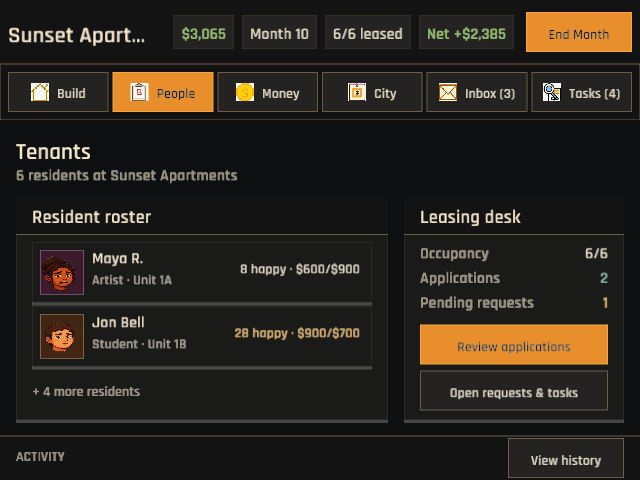
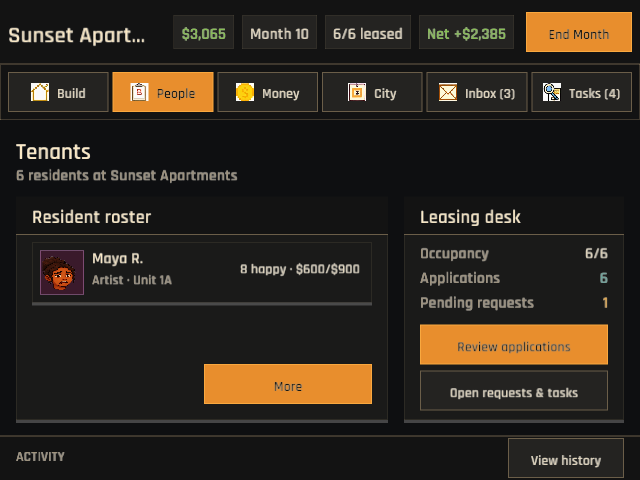
No resident disappears behind the leasing desk ledger (paged tenant roster)
Replace the resident roster's passive '+ more' summary with touch-sized Earlier and More controls backed by transient page state. Compute page capacity from the live panel height so desktop and 640x480 both keep every resident reachable without sacrificing the adjacent applications and requests actions.

Add deterministic later-page tenant captures to the standard verification manifest.

Verified with 131 passing tests (1 ignored), first-page and later-page captures at desktop and 640x480, formatting, diff and Rust line-count checks, and publish.ps1 for Windows, WebGL, and preview deployment.

Changed region(s): [[0.0625, 0.6562, 0.5938, 0.8438], [0.3438, 0.6562, 0.5625, 0.7188], [0.9375, 0.5625, 0.9688, 0.5938]]

diff --git a/src/ui/workspace_views.rs b/src/ui/workspace_views.rs
@@ -96,8 +96,11 @@ pub fn draw_tenants_view(state: &GameplayState, assets: &AssetManager) -> Option
         );
     }
     let row_h = 64.0;
-    let visible = ((roster_inner.h / row_h).floor() as usize).max(1);
-    for tenant in tenants.iter().take(visible) {
+    let controls_h = 48.0;
+    let page_size = (((roster_inner.h - controls_h) / row_h).floor() as usize).max(1);
+    let page_count = tenants.len().div_ceil(page_size).max(1);
+    let page = state.tenants_page.min(page_count - 1);
+    for tenant in tenants.iter().skip(page * page_size).take(page_size) {
         let row = Rect::new(roster_inner.x, y, roster_inner.w, row_h - space::XS);
         draw_card(row, false);
         let portrait = Rect::new(row.x + space::SM, row.y + space::SM, 44.0, 44.0);
@@ -147,14 +150,30 @@ pub fn draw_tenants_view(state: &GameplayState, assets: &AssetManager) -> Option
         );
         y += row_h;
     }
-    if tenants.len() > visible {
-        draw_ui_text(
-            &format!("+ {} more residents", tenants.len() - visible),
-            roster_inner.x,
-            roster_inner.bottom() - space::SM,
-            scale::LABEL,
-            color::TEXT_DIM(),
-        );
+    if page_count > 1 {
+        let button_y = roster_inner.bottom() - 40.0;
+        let gap = space::XS;
+        let button_w = (roster_inner.w - gap) * 0.5;
+        if page > 0
+            && button_at(
+                Rect::new(roster_inner.x, button_y, button_w, 40.0),
+                "Earlier",
+                true,
+                Tone::Secondary,
+            )
+        {
+            return Some(UiAction::SetTenantsPage { page: page - 1 });
+        }
+        if page + 1 < page_count
+            && button_at(
+                Rect::new(roster_inner.x + button_w + gap, button_y, button_w, 40.0),
+                "More",
+                true,
+                Tone::Primary,
+            )
+        {
+            return Some(UiAction::SetTenantsPage { page: page + 1 });
+        }
     }
 
     let side_inner = draw_panel(side, "Leasing desk");

diff --git a/src/state/gameplay.rs b/src/state/gameplay.rs
@@ -133,6 +133,8 @@ pub struct GameplayState {
     #[serde(skip)]
     pub application_page: usize,
     #[serde(skip)]
+    pub tenants_page: usize,
+    #[serde(skip)]
     pub show_pause_menu: bool,
     #[serde(skip)]
     pub activity_drawer_open: bool,
@@ -294,6 +296,7 @@ impl GameplayState {
             selected_neighborhood_id: None,
             pending_property_purchase: None,
             application_page: 0,
+            tenants_page: 0,
             show_pause_menu: false,
             activity_drawer_open: false,
             is_fullscreen: false,
@@ -393,6 +396,7 @@ impl GameplayState {
         self.selected_neighborhood_id = None;
         self.pending_property_purchase = None;
         self.application_page = 0;
+        self.tenants_page = 0;
         self.show_pause_menu = false;
         self.activity_drawer_open = false;
         self.pending_quit_to_menu = false;

diff --git a/src/game.rs b/src/game.rs
@@ -115,6 +115,12 @@ impl Game {
             "tenants_showcase" | "tenants_compact" | "tenants_tiny" => {
                 self.seed_workspace_capture(ViewMode::Tenants);
             }
+            "tenants_more_showcase" | "tenants_more_tiny" => {
+                self.seed_workspace_capture(ViewMode::Tenants);
+                if let GameState::Gameplay(state) = &mut self.state {
+                    state.tenants_page = 1;
+                }
+            }
             "finances_showcase" | "finances_compact" | "finances_wide" | "finances_tiny" => {
                 self.seed_workspace_capture(ViewMode::Finances);
             }

diff --git a/src/state/gameplay_actions.rs b/src/state/gameplay_actions.rs
@@ -327,6 +327,9 @@ impl GameplayState {
             UiAction::SetApplicationPage { page } => {
                 self.application_page = page;
             }
+            UiAction::SetTenantsPage { page } => {
+                self.tenants_page = page;
+            }
             UiAction::AcceptMission { mission_id } => {
                 if !self.missions.accept_mission(mission_id, self.current_tick) {
                     self.report_action_failure("That task is no longer available");

diff --git a/src/ui.rs b/src/ui.rs
@@ -108,6 +108,9 @@ pub enum UiAction {
     SetApplicationPage {
         page: usize,
     },
+    SetTenantsPage {
+        page: usize,
+    },
     AcceptMission {
         mission_id: u32,
     },
